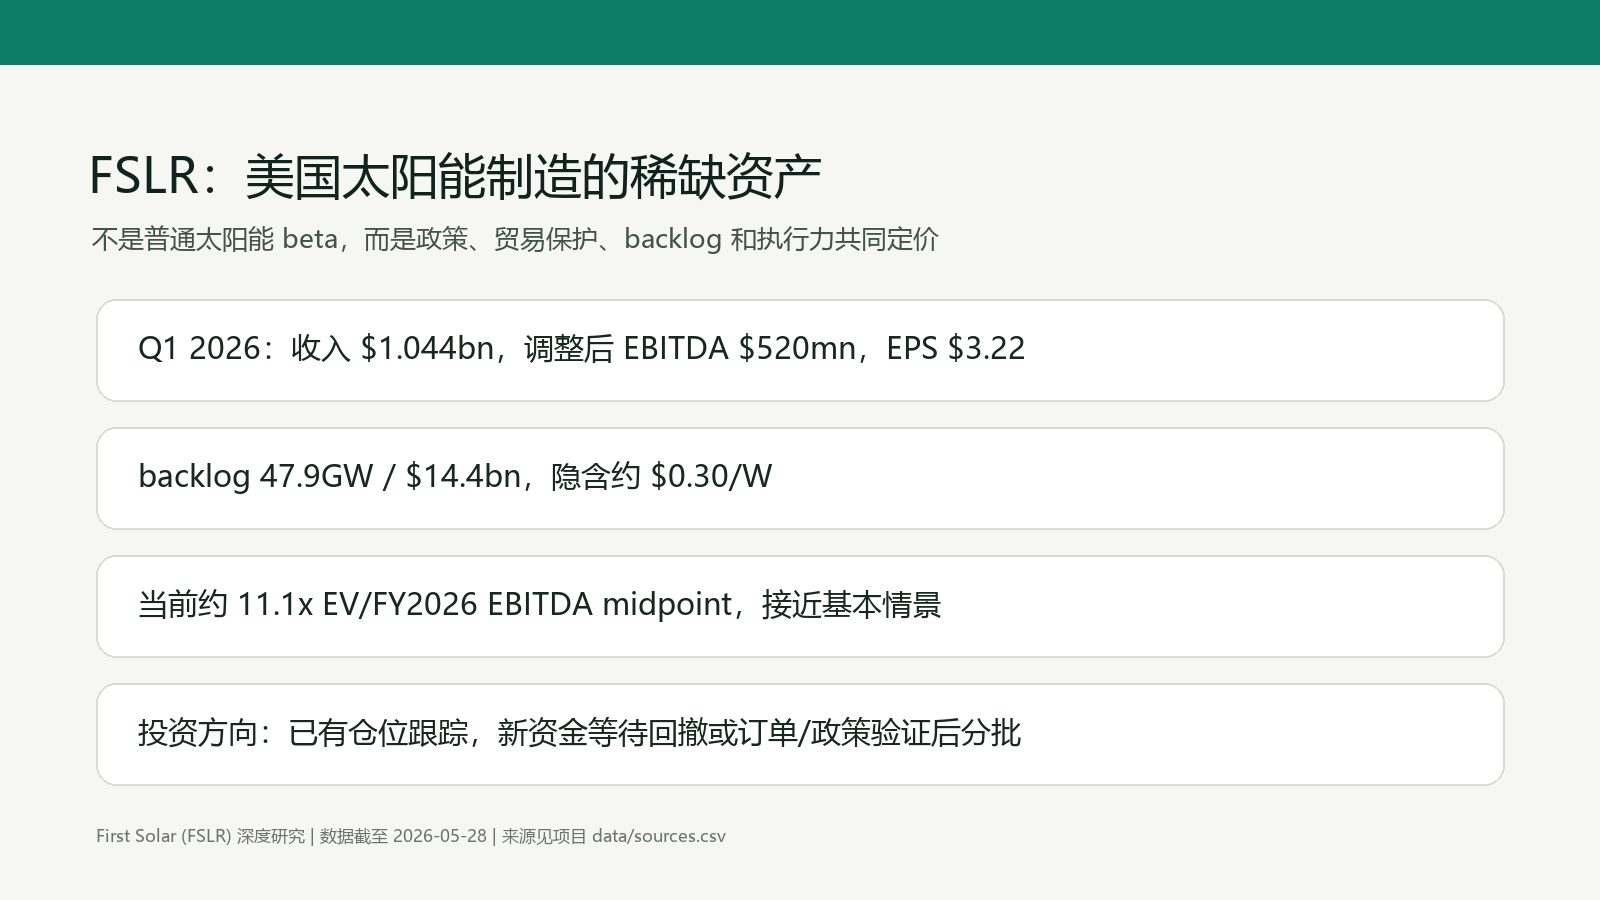
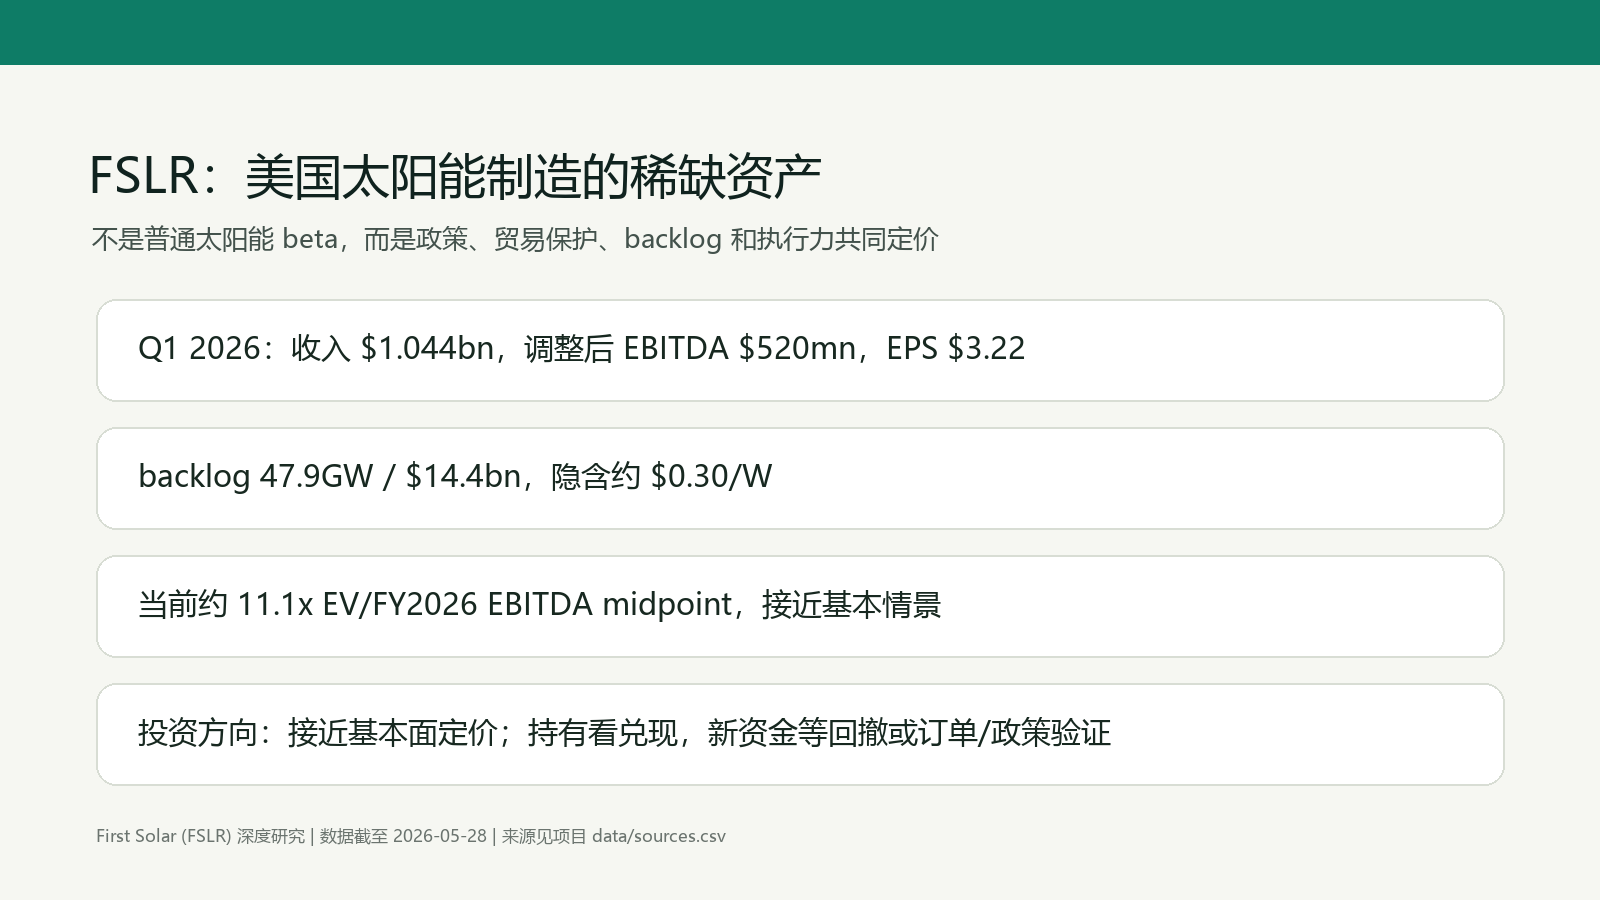
Refine FSLR valuation framing and risk tracking

Changed region(s): [[0.1875, 0.7778, 0.6875, 0.84]]

diff --git a/investment_memo.md b/investment_memo.md
@@ -4,9 +4,9 @@
 
 ## 结论先行
 
-FSLR 的核心矛盾不是“太阳能行业景气度是否好”，而是美国本土薄膜组件产能能不能在政策保护期内，把 45X、贸易壁垒和数据中心/公用事业需求转成可持续现金流。公司当前基本面很强：Q1 2026 收入 $1.044bn、毛利率 46.6%、调整后 EBITDA $520mn、净现金约 $2.0bn，backlog 47.9GW/$14.4bn。问题在于股价也已经重估，按公司口径估算 EV/FY2026 EBITDA midpoint 约 11.1x。
+FSLR 的核心矛盾不是“太阳能行业景气度是否好”，而是美国本土薄膜组件产能能不能在政策保护期内，把 45X、贸易壁垒和数据中心/公用事业需求转成可持续现金流。公司当前基本面很强：Q1 2026 收入 $1.044bn、毛利率 46.6%、调整后 EBITDA $520mn、净现金约 $2.0bn，backlog 47.9GW/$14.4bn。问题在于股价已接近基本面定价，按公司口径估算 EV/FY2026 EBITDA midpoint 约 11.1x，base case 并不显示明显低估。
 
-投资方向上，我更偏向“已有仓位继续持有并围绕事件做增减；新资金等待验证或回撤分批”。这不是一个低估值捡烟蒂。它是政策、订单、产能执行共同驱动的质量制造股，适合用情景和催化跟踪，而不是只看 PE 下单。
+投资方向上，我更偏向“已有仓位继续持有并验证 earnings power；新资金等待回撤、backlog ASP 改善、45X 政策确定性提高，或 2027-2029 收入桥更清晰”。这不是一个低估值捡烟蒂。它是政策、订单、产能执行共同驱动的质量制造股，适合用情景和催化跟踪，而不是只看 PE 下单。
 
 ## 最关键的问题
 
@@ -24,9 +24,9 @@ FSLR 的核心矛盾不是“太阳能行业景气度是否好”，而是美国
 
 ## 估值
 
-按当前价格约 $297.89、Q1 diluted shares 107.6mn、净现金约 $2.0bn 粗算，市值约 $32.1bn，EV 约 $30.1bn。对应 TTM EPS 约 $15.48，P/E 约 19.2x；对应 FY2026 adjusted EBITDA midpoint $2.7bn，EV/EBITDA 约 11.1x。
+按当前价格约 $297.74、Q1 diluted shares 107.6mn、净现金约 $2.0bn 粗算，市值约 $32.0bn，EV 约 $30.0bn。对应 TTM EPS 约 $15.48，P/E 约 19.2x；对应 FY2026 adjusted EBITDA midpoint $2.7bn，EV/EBITDA 约 11.1x。
 
-情景上，熊市情景用 $2.3bn EBITDA 和 8x EV/EBITDA，隐含股价约 $190；基本情景用 $2.7bn 和 10x，约 $269；牛市情景用 $3.2bn 和 12x，约 $375。当前价格接近基本情景，因此需要新增证据支持继续上行。
+情景上，熊市情景用 $2.3bn EBITDA 和 8x EV/EBITDA，隐含股价约 $190；基本情景用 $2.7bn 和 10x，约 $269；牛市情景用 $3.2bn 和 12x，约 $375。当前价格已经高于 base case，说明市场已经反映一部分 45X 和 backlog 可见度，继续上涨需要新增订单 ASP、backlog 兑现、毛利率稳定和政策确定性共同支持。
 
 ## 市场反应
 
@@ -38,9 +38,9 @@ FSLR 是政策敏感行业中的政策受益者，但受益者也要承担政策
 
 ## 投资框架
 
-我的框架是：不把它当普通太阳能股，也不把它当无风险政策套利。已有仓位可以继续跟踪；新资金更适合分批，优先在估值回到 9x EV/FY2026 EBITDA 附近、或新增 bookings/政策出现明确正反馈时加。若股价上到牛市情景但没有 backlog ASP、45X 稳定性或 2027-2028 新单支撑，则更适合降低仓位或只做事件交易。
+我的框架是：不把它当普通太阳能股，也不把它当无风险政策套利。FSLR 不是纯粹低估标的，而是高质量但政策敏感的 earnings compounder。已有仓位继续跟踪 earnings power 兑现；新资金更适合等待回撤、backlog ASP 改善、45X 政策确定性提高，或 2027-2029 收入桥更清晰。若股价上到牛市情景但没有 backlog ASP、45X 稳定性或 2027-2029 新单支撑，则更适合降低仓位或只做事件交易。
 
-需要继续跟踪的指标是：新增 bookings GW 和 ASP、backlog delivery year、45X cash realization、FY2026 EBITDA run-rate、Section 232/AD-CVD/TOPCon 进展、OCF-capex、产能利用率和 warranty/quality disclosure。
+需要继续跟踪的指标是：新增 bookings GW 和 ASP、backlog delivery year、cancellations、45X cash realization、FY2026 EBITDA run-rate、Section 232/AD-CVD/TOPCon 进展、OCF-capex、产能利用率和 warranty/quality disclosure。
 
 ## 来源
 

diff --git a/README.md b/README.md
@@ -4,14 +4,14 @@
 
 ## Thesis
 
-FSLR 不是传统“太阳能 beta”交易。它更像一个美国工业政策、贸易保护和稀缺本土产能共同支撑的高波动制造业资产。公司基本面强，backlog 可见度高，资产负债表干净；但当前股价已经把 2026 年大部分基本情景反映进去，新增回报需要靠政策落地、订单价格和 2027-2029 交付桥继续验证。
+FSLR 不是传统“太阳能 beta”交易。它更像一个美国工业政策、贸易保护和稀缺本土产能共同支撑的高波动制造业资产。公司基本面强，backlog 可见度高，资产负债表干净；但当前股价已接近基本面定价，继续上涨需要靠 earnings power 兑现、backlog 高 ASP 转化、45X 政策确定性提高和 2027-2029 收入桥更清晰。
 
 ## 关键结论
 
 - Q1 2026 net sales 为 $1.044bn，调整后 EBITDA 为 $520mn，EPS 为 $3.22；全年指引维持在 net sales $4.9-$5.2bn、调整后 EBITDA $2.6-$2.8bn。
 - Q1 末已签约 backlog 为 47.9GW、$14.4bn，隐含约 $0.30/W。backlog 是核心护城河，但未来股价更看新增 bookings 的价格和交付年份。
-- 按当前价格约 $297.89、Q1 diluted shares 107.6mn 和净现金约 $2.0bn 估算，EV/FY2026 EBITDA midpoint 约 11.1x，已经接近基本情景。
-- 投资框架偏“分批/等待验证”：已有仓位可继续跟踪政策和订单催化；新资金不宜只因趋势追高，优先等回撤、backlog ASP 维持、45X/贸易政策清晰或 2027-2028 新单加速。
+- 按当前价格约 $297.74、Q1 diluted shares 107.6mn 和净现金约 $2.0bn 估算，EV/FY2026 EBITDA midpoint 约 11.1x，已经接近基本情景。
+- 投资框架偏“持有验证/等待回撤”：FSLR 不是明显低估的 solar recovery trade；已有仓位继续跟踪 earnings power 兑现，新资金等待回撤、backlog ASP 改善、45X 政策确定性提高或 2027-2029 收入桥清晰化。
 
 ## 项目结构
 